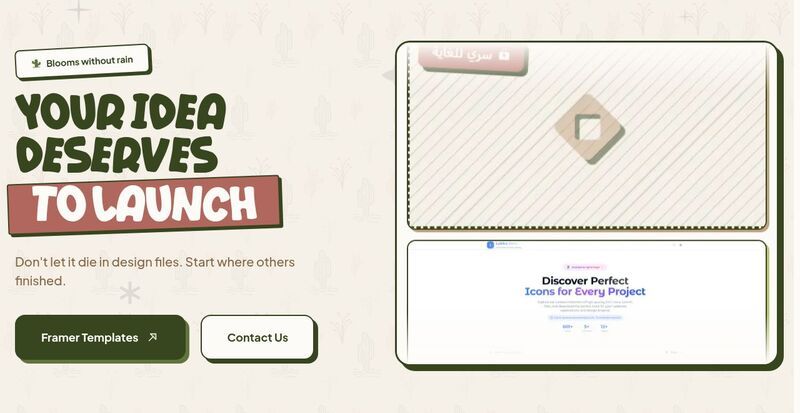
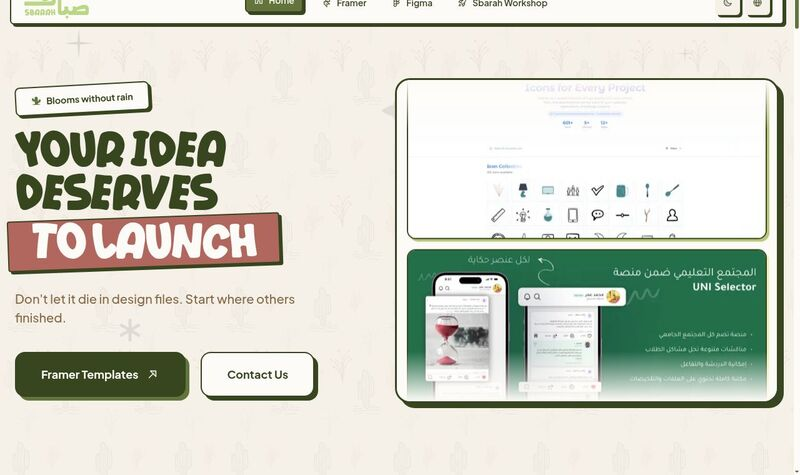
readme: real live screenshots for sbarah and i2s, drop lubba, drop eqfez

diff --git a/README.md b/README.md
@@ -10,17 +10,13 @@
 
 </div>
 
-<br/>
-
 ## Projects
 
-| | | |
-|---|---|---|
+| | |
+|---|---|
 | [![Sbarah](assets/sbarah-home.jpg)](https://sbarah.com) | [![i2s](assets/i2s-home.jpg)](https://i2s.sbarah.com) |
-| [![Lubba](assets/lubba-icons.jpg)](https://lubba.sbarah.com) | [![Sbar Orbit](https://img.shields.io/badge/Sbar_Orbit-Coming_Soon-blue?style=for-the-badge&logo=github&logoColor=white)](#) |
+| [![Sbar Orbit](assets/sbar-orbit.jpg)](https://github.com/M7MMAD-OMAR/sbar-orbit) | |
 
 <div align="center">
-
-<img src="contributions.svg"/>
-
+  <img src="contributions.svg"/>
 </div>
